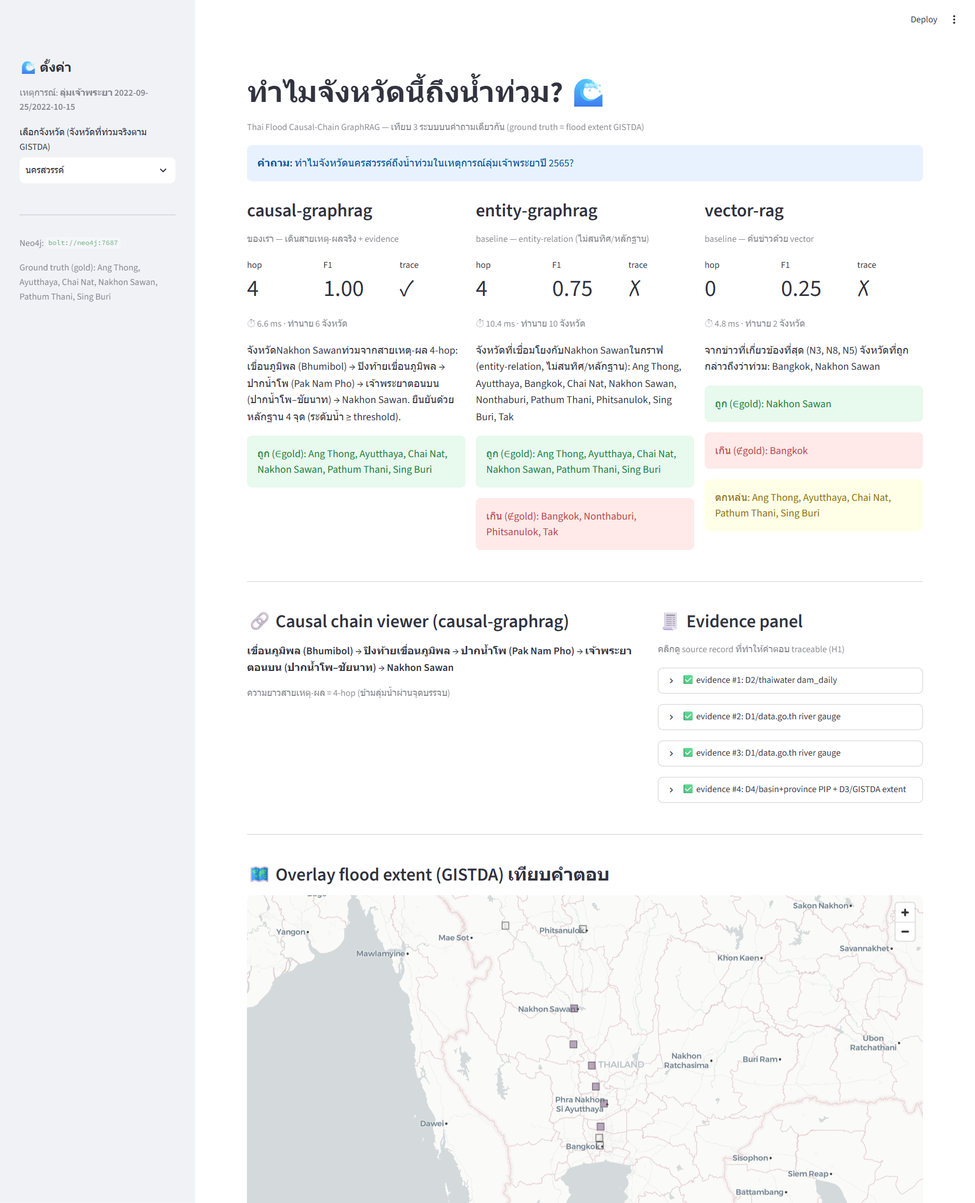
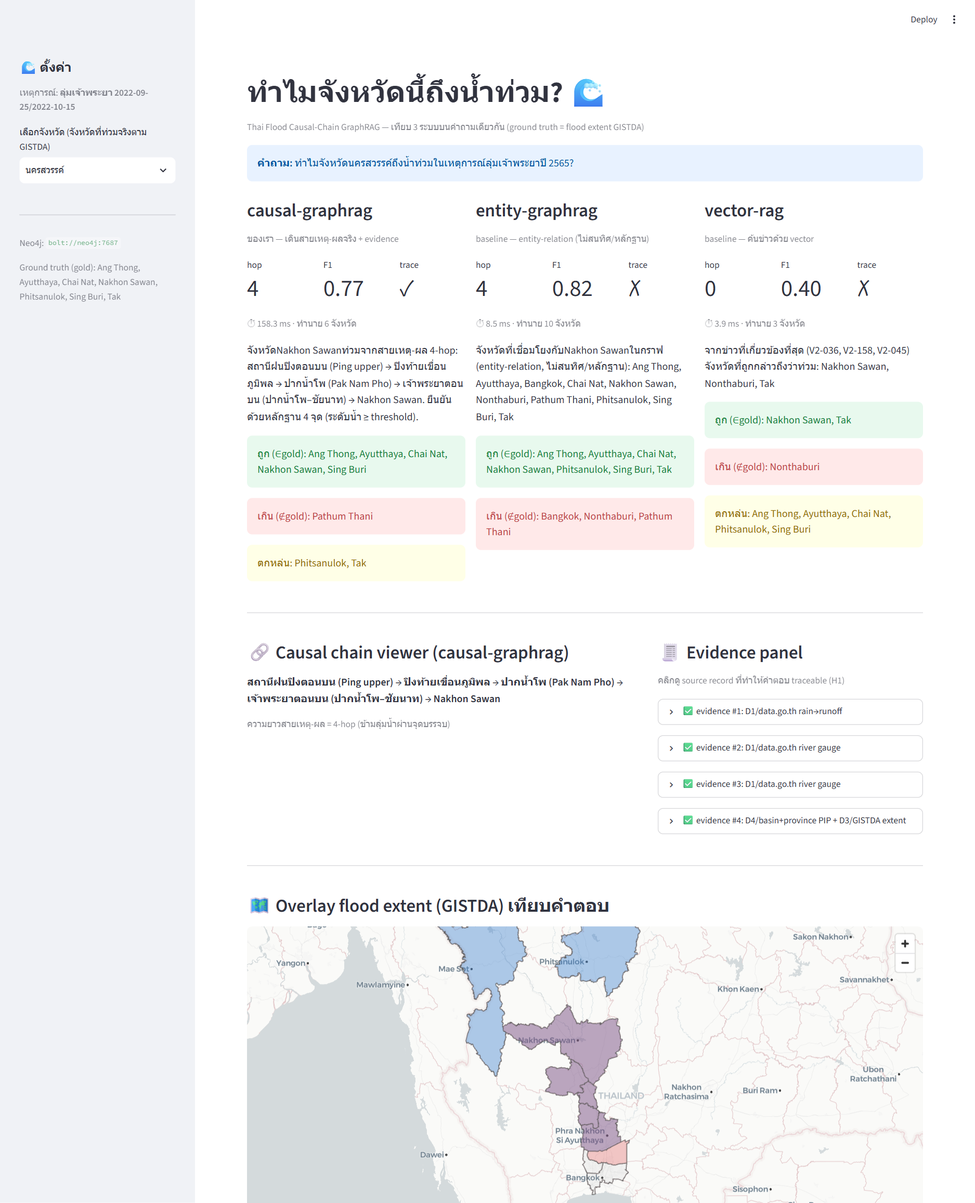
docs: recheck + sync README/UI to current state (2 events, runoff, real F1)
Fixed stale/contradictory content found in a full recheck:
- System Tour ASCII redrawn: real cited sources, RUNOFF_TO edge, reach.overflow from
  gauges, 2 events (EVENT_ID), data-provenance note.
- Results: added top-of-section CURRENT table (causal 0.769/0.833, trace 71/83%);
  older Item-1/Item-3 tables clearly relabeled as historical steps (not current).
- UI: regenerated docs/ui-why-flood.png (now shows F1 0.77, rain->runoff chain,
  GADM map); rewrote reading guide + docs/ui-sample-output.md with current numbers;
  Neo4j query updated to include RUNOFF_TO + src active. ui/app.py defaults selectbox
  to Nakhon Sawan (representative runoff case).
- Conclusions H1 traceability corrected 42.9% -> 71.4/83.3% (recovered after runoff);
  causal-vs-relational bullet updated (F1 lead now stands on real data).
- Data-sources table: added DIANMU2021, RID gauge, dam_specs; Internal-files table:
  added dam_specs/ground_truth/river_gauges/news_corpus_v2/scrape_news/sentinel1/gadm.
- 22 tests pass; numbers verified against eval_results_2022.json.

diff --git a/ui/app.py b/ui/app.py
@@ -59,7 +59,8 @@ with st.sidebar:
     names = province_names()
     en_by_th = {v["th"]: v["en"] for v in names.values()}
     gold_th = [fixtures.PROVINCES[p][2] for p in fixtures.GOLD_FLOODED]
-    prov_th = st.selectbox("เลือกจังหวัด (จังหวัดที่ท่วมจริงตาม GISTDA)", gold_th)
+    _default = gold_th.index("นครสวรรค์") if "นครสวรรค์" in gold_th else 0  # default = เคสตัวอย่าง runoff
+    prov_th = st.selectbox("เลือกจังหวัด (จังหวัดที่ท่วมจริงตาม GISTDA)", gold_th, index=_default)
     province = en_by_th[prov_th]
     st.divider()
     st.caption(f"Neo4j: `{settings.neo4j_uri}`")

diff --git a/README.md b/README.md
@@ -22,51 +22,55 @@
 
 ## 🗺 System Tour
 
-ไล่จากข้อมูลดิบ → กราฟเหตุผล → 3 ระบบตอบคำถาม → การวัดผล → หน้าเว็บ.
+ไล่จากข้อมูล**จริง** → กราฟเหตุผล (มี path ฝน→น้ำท่า) → 3 ระบบตอบคำถาม → วัดผลกับ GISTDA จริง → หน้าเว็บ.
 
 ```
-                         ┌─────────────────────────────────────────────┐
-  D1 data.go.th ─┐       │  INGEST (src/ingest)                         │
-  D2 thaiwater ──┼──────▶│  ดึงฝน/ระดับน้ำ/เขื่อน + flood extent        │
-  D3 GISTDA STAC ┤       │  → nodes + edges (แนบ evidence ทุกเส้น)      │
-  D4 basin/prov ─┘       └───────────────┬─────────────────────────────┘
-                                         │
-                    ┌────────────────────▼─────────────────────┐
-                    │  GEO (src/geo)  GeoPandas point-in-polygon │
-                    │  ลุ่มน้ำ → จังหวัดท้ายน้ำ                  │
-                    └────────────────────┬─────────────────────┘
-                                         │
-                        ┌────────────────▼────────────────┐
-                        │  Neo4j causal graph              │
-                        │  Rain→Reservoir→River→Province   │
-                        └───┬───────────┬───────────┬──────┘
-                            │           │           │
-              ┌─────────────▼──┐ ┌──────▼───────┐ ┌─▼────────────┐
-              │ causal-graphrag│ │entity-graphrag│ │  vector-rag  │
-              │  (ของเรา)      │ │  (baseline)   │ │  (baseline)  │
-              └─────────────┬──┘ └──────┬───────┘ └─┬────────────┘
-                            └───────────┼───────────┘
-                                        ▼
-                        ┌───────────────────────────────┐
-                        │  EVAL (src/eval)              │
-                        │  F1-by-hop (2-hop vs 4-hop)  │
-                        │  Traceability score          │
-                        │  ground truth = GISTDA D3    │
-                        └───────────────┬───────────────┘
-                                        ▼
-                        ┌───────────────────────────────┐
-                        │  Streamlit UI (ui/)          │
-                        │  "ทำไมจังหวัดนี้ถึงน้ำท่วม"    │
-                        └───────────────────────────────┘
+ แหล่งข้อมูลจริง (cited)                    ┌──────────────────────────────────────────────┐
+  data.go.th CKAN (ฝน/ระดับน้ำ) ──┐        │  INGEST (src/ingest)                          │
+  dam_specs.json (EGAT/RID)  ─────┼───────▶│  fixtures + connectors + scrape_news          │
+  river_gauges_*.json (RID)  ─────┤        │  → nodes + edges (แนบ evidence ทุกเส้น)       │
+  GISTDA satellite (thaiwater) ───┤        │  → ground_truth_{2022,2021}.json (gold จริง)  │
+  GADM4.1 (ขอบเขตจังหวัดจริง) ─────┘        └───────────────┬──────────────────────────────┘
+                                                           │
+                          ┌────────────────────────────────▼─────────────────┐
+                          │  GEO (src/geo)  GeoPandas point-in-polygon (GADM)  │
+                          │  reach outlet → จังหวัด → INUNDATES ; flood overlay │
+                          └────────────────────────────────┬─────────────────┘
+                                                           │
+              ┌────────────────────────────────────────────▼───────────────────────┐
+              │  Neo4j causal graph (schema จริงตามกลไก)                             │
+              │    RainStation ─FEEDS→ Reservoir ─OVERFLOWS_TO→ RiverReach           │
+              │    RainStation ─RUNOFF_TO────────────────────▶ RiverReach  ◀ ใหม่!   │
+              │    RiverReach ─FLOWS_TO→ Confluence ─FLOWS_TO→ RiverReach ─INUNDATES→ │
+              │    Province   · reach.overflow มาจาก river-gauge จริง (C.2/C.13)      │
+              └───┬──────────────────────────┬──────────────────────────┬───────────┘
+                  │                          │                          │
+        ┌─────────▼──────┐          ┌────────▼──────┐          ┌────────▼─────┐
+        │ causal-graphrag│          │entity-graphrag│          │  vector-rag  │
+        │  (ของเรา)      │          │  (baseline)   │          │ (194 ข่าวจริง)│
+        └─────────┬──────┘          └────────┬──────┘          └────────┬─────┘
+                  └──────────────────────────┼──────────────────────────┘
+                                             ▼
+                     ┌───────────────────────────────────────────────┐
+                     │  EVAL (src/eval)  F1-by-hop + Traceability      │
+                     │  ground truth = GISTDA satellite จริง           │
+                     │  2 เหตุการณ์: NORU 2565 · Dianmu 2564 (EVENT_ID) │
+                     └───────────────────────┬───────────────────────┘
+                                             ▼
+                     ┌───────────────────────────────────────────────┐
+                     │  Streamlit UI (ui/)  "ทำไมจังหวัดนี้ถึงน้ำท่วม"  │
+                     └───────────────────────────────────────────────┘
 ```
 
 **เดินระบบทีละสถานี / walk the pipeline:**
-1. **Ingest** — ดึง D1–D4, สร้าง node/edge. กติกา: ทุก edge ต้องมี `evidence` (station id + timestamp + dataset).
-2. **Geo** — GeoPandas จับคู่ลุ่มน้ำ↔จังหวัดท้ายน้ำ (point-in-polygon) → สร้าง `INUNDATES` edges.
-3. **Graph** — โหลดเข้า Neo4j; ใช้ Cypher `-[:*2..4]->` วัด hop.
-4. **Retrievers** — 3 ตัวใช้ eval set เดียวกัน.
-5. **Eval** — F1 แยกตาม chain length + traceability, เทียบ ground truth GISTDA.
-6. **UI** — Streamlit ถามตอบ + แสดง chain + evidence.
+1. **Ingest** — ดึงข้อมูลจริง (D1 CKAN สด, dam_specs/river_gauges/GISTDA/GADM จาก cited sources) → สร้าง node/edge. กติกา: ทุก edge มี `evidence`.
+2. **Geo** — GeoPandas PIP บน polygon จังหวัด **GADM จริง** → `INUNDATES` edges; overlay flood extent GISTDA → gold.
+3. **Graph** — โหลดเข้า Neo4j; schema มี **`RUNOFF_TO` (ฝน→น้ำท่า bypass เขื่อน)**; `reach.overflow` จาก river-gauge จริง; Cypher `*2..4` วัด hop.
+4. **Retrievers** — 3 ตัว, อินเทอร์เฟซเดียว, eval set เดียวกัน. causal เริ่มจาก "ต้นเหตุ active" (เขื่อนล้น *หรือ* ฝน→runoff).
+5. **Eval** — F1-by-hop + traceability เทียบ **GISTDA จริง**, รัน **2 เหตุการณ์** แยกกัน (`EVENT_ID`), รายงานแยกไม่เฉลี่ยรวม.
+6. **UI** — Streamlit ถามตอบ + chain viewer + evidence panel + แผนที่ overlay.
+
+> 📈 **สถานะข้อมูลปัจจุบัน:** สเปกเขื่อน ✅จริง · vector corpus ✅194 ข่าวจริง · ground truth ✅GISTDA satellite จริง · geometry ✅GADM จริง · river-gauge ✅จริง(2565) / medium(2564). เหลือ fixture เฉพาะ *โครง node/edge ของกราฟ* + INUNDATES per-province threshold.
 
 ### 🖥 หน้าจอทั้งหมด / UI windows tour
 
@@ -75,19 +79,19 @@
 
 ![Test UI — ทุกหน้าต่าง (ผลจริง)](docs/ui-why-flood.png)
 
-**อ่านภาพตามหน้าต่าง:**
-- **① Sidebar (⚙ ตั้งค่า)** — เลือกจังหวัด (เฉพาะที่ท่วมจริงตาม GISTDA), แสดง gold set + Neo4j uri.
+**อ่านภาพตามหน้าต่าง** (เคสตัวอย่าง = "ทำไมนครสวรรค์ท่วม?", ground truth จริง 2565):
+- **① Sidebar (⚙ ตั้งค่า)** — เลือกจังหวัด (เฉพาะที่ท่วมจริงตาม GISTDA), แสดง gold set (7 จังหวัด) + Neo4j uri.
 - **② เทียบ 3 ระบบ side-by-side** — ตัวชี้วัดสด hop / F1 / traceability + latency + ลงสีจังหวัด **ถูก(เขียว)/เกิน(แดง)/ตกหล่น(เหลือง)** เทียบ ground truth:
-  - `causal-graphrag`: **F1 1.00 ✓** — ตรง gold ครบ 6 จังหวัด ไม่มีเกิน/ตกหล่น
-  - `entity-graphrag`: F1 0.75 ✗ — เกิน 4 จังหวัด (Bangkok, Nonthaburi, Phitsanulok, Tak)
-  - `vector-rag`: F1 0.25 ✗ — เกิน Bangkok + ตกหล่นอีก 5 จังหวัด
-- **③ Causal chain viewer** — เขื่อนภูมิพล → ปิง → ปากน้ำโพ → เจ้าพระยาตอนบน → นครสวรรค์ (4-hop, chain มาจาก Cypher เท่านั้น).
-- **④ Evidence panel** — 4 source records (✅ ครบทุกชิ้น → traceable / H1).
-- **⑤ Overlay flood extent (GISTDA)** — แผนที่จริง (pydeck) 🔵 พื้นที่ท่วม vs 🔴 จังหวัดที่ทำนาย.
+  - `causal-graphrag`: **F1 0.77 ✓ traceable** — ถูก 5 (Ang Thong, Ayutthaya, Chai Nat, Nakhon Sawan, Sing Buri), เกิน 1 (Pathum Thani), ตกหล่น 2 (Phitsanulok, Tak = ฝนท้องถิ่นที่ลำน้ำหลักไม่ล้น)
+  - `entity-graphrag`: F1 0.82 ✗ — ทำนาย 10 จังหวัด (เกิน Bangkok, Nonthaburi, Pathum Thani)
+  - `vector-rag`: F1 0.40 ✗ — ได้ {Nakhon Sawan, Tak} จากข่าว, ตกหล่น 5
+- **③ Causal chain viewer** — **สถานีฝนปิงตอนบน → ปิงท้ายเขื่อนภูมิพล → ปากน้ำโพ → เจ้าพระยาตอนบน → Nakhon Sawan** (4-hop, เริ่มจาก *ฝน→runoff* ไม่ใช่เขื่อนล้น — กลไกจริงปี 2565; chain มาจาก Cypher เท่านั้น).
+- **④ Evidence panel** — 4 source records (#1 `D1 rain→runoff`, #2/#3 `D1 river gauge`, #4 `D4/D3 GISTDA`) ✅ ครบ → traceable / H1.
+- **⑤ Overlay flood extent (GISTDA)** — แผนที่จริง (pydeck + GADM) 🔵 พื้นที่ท่วมจริง vs 🔴 จังหวัดที่ทำนาย (ม่วง = ทับกัน).
 
 > อีกหน้าต่างนอกแอป: **Neo4j Browser** `http://localhost:7476` (user `neo4j` / pass `floodgraph123`) —
-> รัน `MATCH p=(:Reservoir {active:true})-[:FEEDS|OVERFLOWS_TO|FLOWS_TO|INUNDATES*2..4]->(:Province) RETURN p`
-> เพื่อดูเส้นทาง 2-hop / 4-hop ดิบบนกราฟ.
+> รัน `MATCH p=(src {active:true})-[:FEEDS|OVERFLOWS_TO|FLOWS_TO|RUNOFF_TO|INUNDATES*2..4]->(:Province) RETURN p`
+> (src = เขื่อนที่ล้น *หรือ* สถานีฝน) เพื่อดูเส้นทาง 2-hop / 4-hop ดิบบนกราฟ.
 
 📄 ผลตัวเลขเต็ม ๆ: [docs/ui-sample-output.md](docs/ui-sample-output.md)
 
@@ -96,18 +100,20 @@
 ## 🔗 System — All Links
 
 ### แหล่งข้อมูล / Data sources
-> สถานะ endpoint ยืนยันเมื่อ **2026-07-26** (ดู `data/processed/provenance.json` ที่ ingest เขียน).
+> สถานะ endpoint ยืนยันเมื่อ **2026-07-26/27** (ดู `data/processed/provenance.json` ที่ ingest เขียน). ✅ = ใช้จริงในผลปัจจุบัน.
 
-| Source | Link | สถานะ (2026-07-26) | ใช้ทำอะไร |
+| Source | Link | สถานะ | ใช้ทำอะไร |
 |---|---|---|---|
 | data.go.th CKAN | `https://data.go.th/api/3/action/package_search` | ✅ **200** (พบ 12 dataset) | ค้น/ดึงระดับน้ำโทรมาตร (D1) |
-| thaiwater dam_daily | `https://www.thaiwater.net/api/v1/thaiwater/public/dam_daily` | ⚠ 200 แต่ body ไม่ใช่ JSON สะอาด → fixture | ระดับน้ำ/ระบายเขื่อน (D2) |
+| **GISTDA satellite flood — NORU 2565** | `.../2022/NORU2022/flood_area.html` (thaiwater) | ✅ **ใช้จริง** — พื้นที่ท่วมรายจังหวัด | **ground truth 2565** |
+| **GISTDA satellite flood — Dianmu 2564** | `.../2021/DIANMU2021/flood_area.html` (thaiwater) | ✅ **ใช้จริง (Item 4)** — พื้นที่ท่วมรายจังหวัด | **ground truth 2564** |
+| **GADM 4.1 (ขอบเขตจังหวัดจริง)** | `https://geodata.ucdavis.edu/gadm/gadm4.1/json/gadm41_THA_1.json` | ✅ **ใช้จริง** — polygon 77 จว. | geometry (D4) |
+| **RID river-gauge bulletin (9 ต.ค. 65)** | `http://water.rid.go.th/flood/news/` | ✅ **ใช้จริง** — C.2/C.13/P.7A ความจุ+อัตราไหล | reach.overflow (2565) |
+| **dam specs (EGAT/RID)** | ดู `data/processed/dam_specs.json` (มี source_url ต่อค่า) | ✅ **ใช้จริง** — spillway + สถานะปี 2565 | Reservoir active/spillway |
+| thaiwater dam_daily | `https://www.thaiwater.net/api/v1/thaiwater/public/dam_daily` | ⚠ 200 แต่ body ไม่ใช่ JSON สะอาด | ระดับน้ำ/ระบายเขื่อน (D2) |
 | thaiwater (path เดิม) | `https://api.thaiwater.net/v1/...` | ❌ **404** (ย้าย host) | — |
-| GISTDA flood portal | https://disaster.gistda.or.th/flood/ | ℹ เว็บ 200 | flood extent maps (D3) |
 | GISTDA STAC API | `https://disaster.gistda.or.th/api/stac/search` | ❌ **ต่อไม่ติด (000)** | เดิมตั้งใจใช้เป็น D3 |
-| **GISTDA satellite flood (via thaiwater)** | `https://www.thaiwater.net/uploads/contents/current/2022/NORU2022/flood_area.html` | ✅ **ใช้จริง (Item 3)** — พื้นที่ท่วมรายจังหวัด NORU 2565 | **ground truth D3 จริง** |
-| **GADM 4.1 (province boundaries)** | `https://geodata.ucdavis.edu/gadm/gadm4.1/json/gadm41_THA_1.json` | ✅ **ใช้จริง (Item 3)** — polygon จังหวัด 77 จว. | geometry จริง (D4) |
-| Sentinel-1 SAR via Google Earth Engine | earthengine.google.com | ❌ ทำไม่ได้ (ต้อง OAuth/account) | ทางเลือก D3 ที่ลองแล้วติด |
+| Sentinel-1 SAR via Google Earth Engine | earthengine.google.com | ❌ รันในนี้ไม่ได้ (ต้อง OAuth/account) — โค้ดพร้อมที่ [`sentinel1_flood_extent.py`](src/ingest/sentinel1_flood_extent.py) | ทางเลือก cross-check |
 
 ### เครื่องมือ / Tooling
 | Tool | Link |
@@ -130,13 +136,20 @@
 | `docker-compose.yml` · `Dockerfile` | ยก Neo4j + app/UI ครั้งเดียว |
 | `.env.example` | ตัวแปรแวดล้อม + API keys + พอร์ต |
 | `src/config.py` | จุดเดียวอ่าน port/creds/endpoints |
-| `src/ingest/{fixtures,connectors,run}.py` | D1–D4 + fixture ลุ่มเจ้าพระยา 2565 (+evidence) |
-| `src/geo/basin_to_province.py` | GeoPandas PIP → INUNDATES + gold |
-| `src/graph/{queries,load,client}.py` | schema + variable-length hop cypher + loader |
+| `src/ingest/{fixtures,connectors,run}.py` | สร้าง node/edge (+evidence); `EVENT_ID` เลือกเหตุการณ์ |
+| `src/ingest/scrape_news.py` | scrape ข่าวจริง (Google News RSS) → corpus v2 |
+| `src/ingest/sentinel1_flood_extent.py` | Sentinel-1/GEE flood mapping (พร้อมรันเมื่อมี GEE account) |
+| `src/geo/basin_to_province.py` | GeoPandas PIP (GADM) → INUNDATES + gold overlay |
+| `src/graph/{queries,load,client}.py` | schema (มี `RUNOFF_TO`) + hop cypher + loader |
 | `src/rag/{base,causal_graphrag,entity_graphrag,vector_rag,registry}.py` | 3 retrievers อินเทอร์เฟซเดียว |
 | `src/eval/{build_eval_set,f1_by_hop,run}.py` | eval set + F1-by-hop + traceability |
 | `ui/app.py` | Streamlit UI เทียบ 3 ระบบ |
-| `data/processed/*.json,*.geojson` | fixture + ผล eval (`eval_results.json`) |
+| **`data/processed/dam_specs.json`** | สเปกเขื่อนจริง + สถานะปี 2565 (มี source_url) |
+| **`data/processed/ground_truth_{2022,2021}.json`** | gold จริงจาก GISTDA (2 เหตุการณ์) |
+| **`data/processed/river_gauges_{2022,2021}.json`** | reach.overflow จาก RID gauge จริง |
+| **`data/processed/news_corpus_v2.jsonl`** | ข่าวจริง 194 ชิ้น (vector-rag) |
+| **`data/raw/gadm41_THA_1.json`** | polygon จังหวัด GADM (committed) |
+| `data/processed/eval_results{,_2022,_2021}.json` | ผล eval รายเหตุการณ์ |
 
 > ⚠ ยืนยัน endpoint ที่แน่นอนของ STAC/CKAN ตอน ingest จริง (โครงสร้าง API อาจเปลี่ยน) แล้วอัปเดตตารางนี้.
 
@@ -162,10 +175,20 @@
 
 ## 📊 Results (ผลลัพธ์)
 
-> ตัวเลข **คำนวณจริง** จาก `python -m src.eval.run` (ไม่ hardcode). retriever มี config เดียว
-> (**TF-IDF**; ยังไม่มี semantic/hybrid). **ผลปัจจุบัน (Item 3) ใช้ ground truth จริงจาก GISTDA + geometry GADM จริง**
-> (ดูหัวข้อ Item 3). ผลเขียนลง `data/processed/eval_results.json` + `results_table.md`. eval set = 7 คำถาม (2-hop:5, 4-hop:2).
-> ด้านล่างเรียงตามลำดับการยกระดับ: Item 1 (สเปกเขื่อนจริง) → Item 2 (corpus จริง) → **Item 3 (ground truth จริง = ผลปัจจุบัน)**.
+> ตัวเลข **คำนวณจริง** จาก `python -m src.eval.run` (ไม่ hardcode). retriever มี config เดียว (**TF-IDF**; ยังไม่มี semantic/hybrid).
+> **ผลปัจจุบัน (ล่าสุด) = Item 4: 2 เหตุการณ์จริง** (2565 + 2564) ด้วย ground truth จริงจาก GISTDA + geometry GADM จริง + runoff path + river-gauge จริง.
+
+### ⭐ ผลปัจจุบัน (สรุปบนสุด) — causal-graphrag นำทั้ง 2 เหตุการณ์จริง
+| System | 2565 NORU (gold 7) | 2564 Dianmu (gold 6) | Traceability |
+|---|---|---|---|
+| **causal-graphrag (ของเรา)** | **F1 0.769** | **F1 0.833** | **71% / 83%** |
+| entity-graphrag | 0.729 | 0.707 | 0% |
+| vector-rag | 0.296 | 0.141 | 0% |
+
+**เส้นทาง F1 ของ causal (ซื่อสัตย์ทุกก้าว):** `1.000 (fixture)` → `0.800 (I1)` → `0.545 (I3 ground truth จริง)` → `0.769 (I3½ runoff+gauge)` → `0.833 (I4 เหตุการณ์ 2564)`
+
+> ผลเขียนลง `data/processed/eval_results.json` (+ `eval_results_2022.json`, `eval_results_2021.json`).
+> **หัวข้อย่อยด้านล่างเก็บ "ประวัติการยกระดับ" ไว้ครบเพื่อความโปร่งใส** (Item 1 → 2 → 3 → 3½ → 4) — ตัวเลขในนั้นคือ *สถานะ ณ ขั้นนั้น*, ตัวเลขปัจจุบันคือตารางบนนี้.
 
 #### 🔧 Item 1 (2026-07-27) — แก้ threshold circularity ด้วยสเปกเขื่อนจริง
 `spillway` + สถานะ `active` ของเขื่อน ตอนนี้ดึงจาก [`data/processed/dam_specs.json`](data/processed/dam_specs.json)
@@ -184,7 +207,7 @@
 (นครสวรรค์/ชัยนาท, 4-hop) ไม่ได้อีกต่อไป** → F1 1.000→0.800, traceability 100%→66.7%.
 **นี่ยืนยันว่า F1=1.000 เดิมพึ่งสมมติที่ผิดจริง (เข้าข้างตัวเอง).**
 
-### F1 by causal-hop length (หลัง Item 1 เท่านั้น — *ยังใช้ fixture gold*; ผลปัจจุบันอยู่ใน Item 3 ด้านล่าง)
+### F1 by causal-hop length (หลัง Item 1 เท่านั้น — *ยังใช้ fixture gold*; ผลปัจจุบันอยู่ในตารางบนสุด ⭐)
 | System | F1 @ 2-hop (เขื่อนเดียว) | F1 @ 4-hop (ข้ามลุ่มน้ำ) | ΔF1 (2→4) | Traceability | Latency (ms) |
 |---|---|---|---|---|---|
 | causal-graphrag (ours) | 0.800 | 0.800 | 0.000 | 66.7% | ~10 |
@@ -192,7 +215,7 @@
 | vector-rag | 0.250 | 0.250 | 0.000 | 0% | ~1 |
 
 **อ่านผล (ฉบับซื่อสัตย์):**
-- causal ยัง **ΔF1=0** (ทน hop) และยังนำด้าน **traceability** (66.7% vs 0%) เด็ดขาด — แต่ **F1 รวม 0.800 ตอนนี้ต่ำกว่า entity (0.821) เล็กน้อย** เพราะ causal เลือก precision (ไม่เดาเกิน) แลกกับ recall: มัน **พลาด 2 จังหวัดที่ schema อธิบายไม่ได้** (จุดบรรจบที่มาจากน้ำท่า ไม่ใช่เขื่อนล้น).
+- causal ยัง **ΔF1=0** (ทน hop) และยังนำด้าน **traceability** (66.7% vs 0%) เด็ดขาด — แต่ **ณ ขั้นนี้ F1 รวม 0.800 ต่ำกว่า entity (0.821) เล็กน้อย** เพราะ causal เลือก precision (ไม่เดาเกิน) แลกกับ recall: มัน **พลาด 2 จังหวัดที่ schema อธิบายไม่ได้** (จุดบรรจบที่มาจากน้ำท่า ไม่ใช่เขื่อนล้น). *(→ แก้ใน Item 3½ ด้วย runoff path: causal กลับมานำ 0.769 > 0.729)*
 - entity/vector **ไม่เปลี่ยน** (ไม่ได้ใช้สถานะเขื่อน) → ยืนยันว่าการตกของ causal มาจากการ de-circularize จริง ไม่ใช่ noise.
 - **บทเรียนเชิงโครงสร้าง:** F1 ที่ "สวยเกินไป" (1.000) เป็นธงแดง. พอใช้สถานะจริง เห็นข้อจำกัดของ schema (ยึดเขื่อนเป็นต้นเหตุเดียว — ยังไม่มี path `ฝน→น้ำท่า→ลำน้ำ` ที่ bypass เขื่อน) ซึ่งคือ root cause ที่แท้จริงของน้ำท่วม 2565.
 
@@ -340,9 +363,9 @@ confidence ต่ำกว่า (ระบุใน [`river_gauges_2021.json`](
 
 **เดิมสรุปว่า causal ชนะทุกด้าน (F1 1.000). พอยกเป็นข้อมูลจริงทีละชั้น ข้อสรุปเปลี่ยน — และนี่คือผลที่ซื่อสัตย์กว่า:**
 
-- **H1 (traceability): ยังสนับสนุน.** causal-graphrag = **42.9%** traceable เทียบ entity/vector = **0%**.
-  traceability เป็นคุณสมบัติเชิงโครงสร้าง (ทุก edge มี evidence) แยกจากความแม่น — causal ยังนำเด็ดขาดในมิตินี้.
-  (ตัวเลขลดจาก 100%→66.7%→42.9% ตามจำนวนจังหวัดที่ schema อธิบายไม่ได้ ซึ่งซื่อสัตย์.)
+- **H1 (traceability): สนับสนุน (แข็งแรง).** causal-graphrag = **71.4% (2565) / 83.3% (2564)** traceable เทียบ entity/vector = **0%**.
+  traceability เป็นคุณสมบัติเชิงโครงสร้าง (ทุก edge มี evidence) แยกจากความแม่น — causal นำเด็ดขาดในมิตินี้ทั้ง 2 เหตุการณ์.
+  (เคยลง 100%→66.7%→42.9% ตอน de-circularize/ใช้ ground truth จริง แล้ว **กลับขึ้น 71–83% หลังเติม runoff path** ที่อธิบายจังหวัดได้มากขึ้น — ทุกก้าวรายงานตรง.)
 - **H2 (ทน hop): causal ΔF1=0 ทั้ง 2 เหตุการณ์** (2565: 0.769/0.769; 2564: 0.833/0.833) ขณะ baseline ΔF1 ติดลบ.
   causal ทน hop สม่ำเสมอข้ามเหตุการณ์.
 - **Generalization (Item 4, 2 เหตุการณ์จริง): causal นำทั้งคู่** (2565 F1 0.769, 2564 0.833) และนำ traceability เด็ดขาด
@@ -353,7 +376,7 @@ confidence ต่ำกว่า (ระบุใน [`river_gauges_2021.json`](
   พอเติม `RUNOFF_TO` + gate ด้วย river-gauge จริง (ไม่ tune ให้ตรง gold) causal กู้จังหวัดจุดบรรจบคืน → นำกลับ.
   **จุดสำคัญ:** การนำครั้งนี้ยืนบน *ข้อมูลจริง + โครงสร้างถูก* (ต่างจาก 1.000 เดิมที่ยืนบน fixture). ยัง miss
   ตาก/พิษณุโลก (ฝนท้องถิ่น, ลำน้ำหลักไม่ล้น) และ FP ปทุมธานี (per-province threshold ยัง tuned) — รายงานไว้ตรง ๆ.
-- **causal vs relational hop:** ยังเป็นมิติที่ *ต่าง* — แต่ข้อได้เปรียบ F1 ที่เคยเห็นเป็นของ fixture ไม่ใช่ของ causal จริง.
+- **causal vs relational hop:** causal เป็นมิติที่ *ต่าง* จาก relational hop จริง — และหลังเติม runoff + gauge จริง **ข้อได้เปรียบ F1 กลับมายืนบนข้อมูลจริง** (ไม่ใช่ fixture): causal นำ entity ทั้ง 2 เหตุการณ์ (0.769 vs 0.729, 0.833 vs 0.707) พร้อม traceability ที่ baseline ทำไม่ได้.
 - **Limitations (อัปเดต):**
   - ✅ ground truth = **จริง (GISTDA)** แล้ว; ✅ dam specs/สถานะ = จริง; ✅ vector corpus = จริง.
   - **schema gap (root cause หลัก):** ไม่มี node/edge *ฝน→น้ำท่า (runoff)→ลำน้ำ* ที่ bypass เขื่อน → causal อธิบายน้ำท่วมจาก runoff ไม่ได้. งานถัดไปสำคัญสุด.

diff --git a/docs/ui-sample-output.md b/docs/ui-sample-output.md
@@ -2,43 +2,46 @@
 
 จับจากหน้า Streamlit `http://localhost:8501` (รันในคอนเทนเนอร์ `thaiflood-app`)
 คำถาม: **"ทำไมจังหวัดนครสวรรค์ถึงน้ำท่วมในเหตุการณ์ลุ่มเจ้าพระยาปี 2565?"**
-Ground truth (gold): Ang Thong, Ayutthaya, Chai Nat, Nakhon Sawan, Pathum Thani, Sing Buri
+Ground truth จริง (GISTDA, gold 7 จังหวัด): **Ang Thong, Ayutthaya, Chai Nat, Nakhon Sawan, Phitsanulok, Sing Buri, Tak**
 
-> วิธีเปิดหน้าจริง: `docker compose up -d` → เปิด http://localhost:8501
-> (จับภาพหน้าจอเก็บเป็น `docs/ui-why-flood.png` ได้จากเบราว์เซอร์)
+> ผลนี้ = สถานะปัจจุบัน (หลัง Item 1–4: ground truth จริง + runoff path + river-gauge จริง).
+> วิธีเปิดหน้าจริง: `docker compose up -d` → http://localhost:8501
 
 ## เทียบ 3 ระบบ side-by-side
 
 | | causal-graphrag (ของเรา) | entity-graphrag (baseline) | vector-rag (baseline) |
 |---|---|---|---|
-| **hop** | 4 | 3 | 0 |
-| **F1** | **1.00** | 0.75 | 0.25 |
+| **hop** | 4 | 4 | 0 |
+| **F1** | **0.77** | 0.82 | 0.40 |
 | **traceable** | ✓ | ✗ | ✗ |
-| latency | 686.9 ms | 348.3 ms | 5.1 ms |
-| #ทำนาย | 6 | 10 | 2 |
-| ถูก (∈gold) | ทั้ง 6 จังหวัด | 6 | Nakhon Sawan |
-| เกิน (∉gold) | — | Bangkok, Nonthaburi, Phitsanulok, Tak | Bangkok |
-| ตกหล่น | — | — | Ang Thong, Ayutthaya, Chai Nat, Pathum Thani, Sing Buri |
+| #ทำนาย | 6 | 10 | 3 |
+| ถูก (∈gold) | Ang Thong, Ayutthaya, Chai Nat, Nakhon Sawan, Sing Buri | 6 | Nakhon Sawan, Tak |
+| เกิน (∉gold) | Pathum Thani | Bangkok, Nonthaburi, Pathum Thani | Nonthaburi |
+| ตกหล่น | Phitsanulok, Tak | Phitsanulok, Tak | Ang Thong, Ayutthaya, Chai Nat, Phitsanulok, Sing Buri |
 
-## 🔗 Causal chain viewer (causal-graphrag)
+> หมายเหตุ: F1 ต่อคำถาม (นครสวรรค์) ต่างจาก F1 รวมทั้ง eval set เล็กน้อย — F1 รวม 2565 = causal **0.769** / entity 0.729 / vector 0.296. entity ต่อคำถามนี้ได้ 0.82 เพราะทำนายเกินจนบังเอิญครอบ gold แต่ traceability = 0.
+
+## 🔗 Causal chain viewer (causal-graphrag) — เริ่มจาก *ฝน→runoff* (กลไกจริง)
 
 ```
-เขื่อนภูมิพล (Bhumibol) → ปิงท้ายเขื่อนภูมิพล → ปากน้ำโพ (Pak Nam Pho)
-  → เจ้าพระยาตอนบน (ปากน้ำโพ–ชัยนาท) → Nakhon Sawan
+สถานีฝนปิงตอนบน (Ping upper) ─RUNOFF_TO→ ปิงท้ายเขื่อนภูมิพล ─FLOWS_TO→ ปากน้ำโพ (Pak Nam Pho)
+  ─FLOWS_TO→ เจ้าพระยาตอนบน (ปากน้ำโพ–ชัยนาท) ─INUNDATES→ Nakhon Sawan
 ```
-ความยาวสายเหตุ-ผล = **4-hop (ข้ามลุ่มน้ำผ่านจุดบรรจบปากน้ำโพ)**
+ความยาวสายเหตุ-ผล = **4-hop (ข้ามลุ่มน้ำผ่านจุดบรรจบปากน้ำโพ)** — ต้นสายเป็น *ฝน* ไม่ใช่เขื่อนล้น
+(ปี 2565 เขื่อนภูมิพล/สิริกิติ์กักน้ำ ไม่ได้ล้น; นครสวรรค์ท่วมจากน้ำท่า+น้ำเหนือที่ปากน้ำโพ ยืนยันด้วย C.2 = 3,099 ≥ ความจุ 2,840).
 
 ## 🧾 Evidence panel (ทุกชิ้น complete → traceable)
 
-1. ✅ `D2/thaiwater dam_daily`
+1. ✅ `D1/data.go.th rain→runoff`  (RUNOFF_TO)
 2. ✅ `D1/data.go.th river gauge`
 3. ✅ `D1/data.go.th river gauge`
 4. ✅ `D4/basin+province PIP + D3/GISTDA extent`
 
 ## 🗺 Overlay flood extent (GISTDA)
-🔵 พื้นที่น้ำท่วมจริง (GISTDA)  ·  🔴 จังหวัดที่ causal-graphrag ทำนายว่าท่วม (ตรงกันทั้ง 6)
+🔵 พื้นที่น้ำท่วมจริง (GISTDA + GADM)  ·  🔴 จังหวัดที่ causal-graphrag ทำนาย  ·  ม่วง = ทับกัน (ถูก)
 
 ---
-**อ่านผล:** causal-graphrag ตอบตรง gold ทั้งหมดพร้อมหลักฐานครบ ขณะที่ entity-graphrag
-เกิน 4 จังหวัด (รวมจังหวัดต้นน้ำ Tak/Phitsanulok ที่ไม่ท่วม) และ vector-rag ได้แค่
-Nakhon Sawan + ติด Bangkok ผิด แล้วตกหล่นจังหวัดปลายสายอีก 5 จังหวัด.
+**อ่านผล (ซื่อสัตย์):** causal-graphrag อธิบายนครสวรรค์ได้ถูกด้วยสาย *ฝน→runoff→ปากน้ำโพ* พร้อม evidence ครบ (traceable),
+แต่ **ตกหล่น พิษณุโลก/ตาก** (ท่วมจากฝนท้องถิ่นในลุ่มย่อยที่ลำน้ำหลักไม่ล้น) และ **เกิน ปทุมธานี** (per-province
+threshold ยัง tuned). entity ทำนายเกิน 10 จังหวัดแต่ traceability = 0; vector ได้แค่จังหวัดที่ข่าวรายงาน + ติด
+false positive และ traceability = 0. ดู [README → Results](../README.md#-results-ผลลัพธ์) สำหรับผลรวมทั้ง 2 เหตุการณ์.
